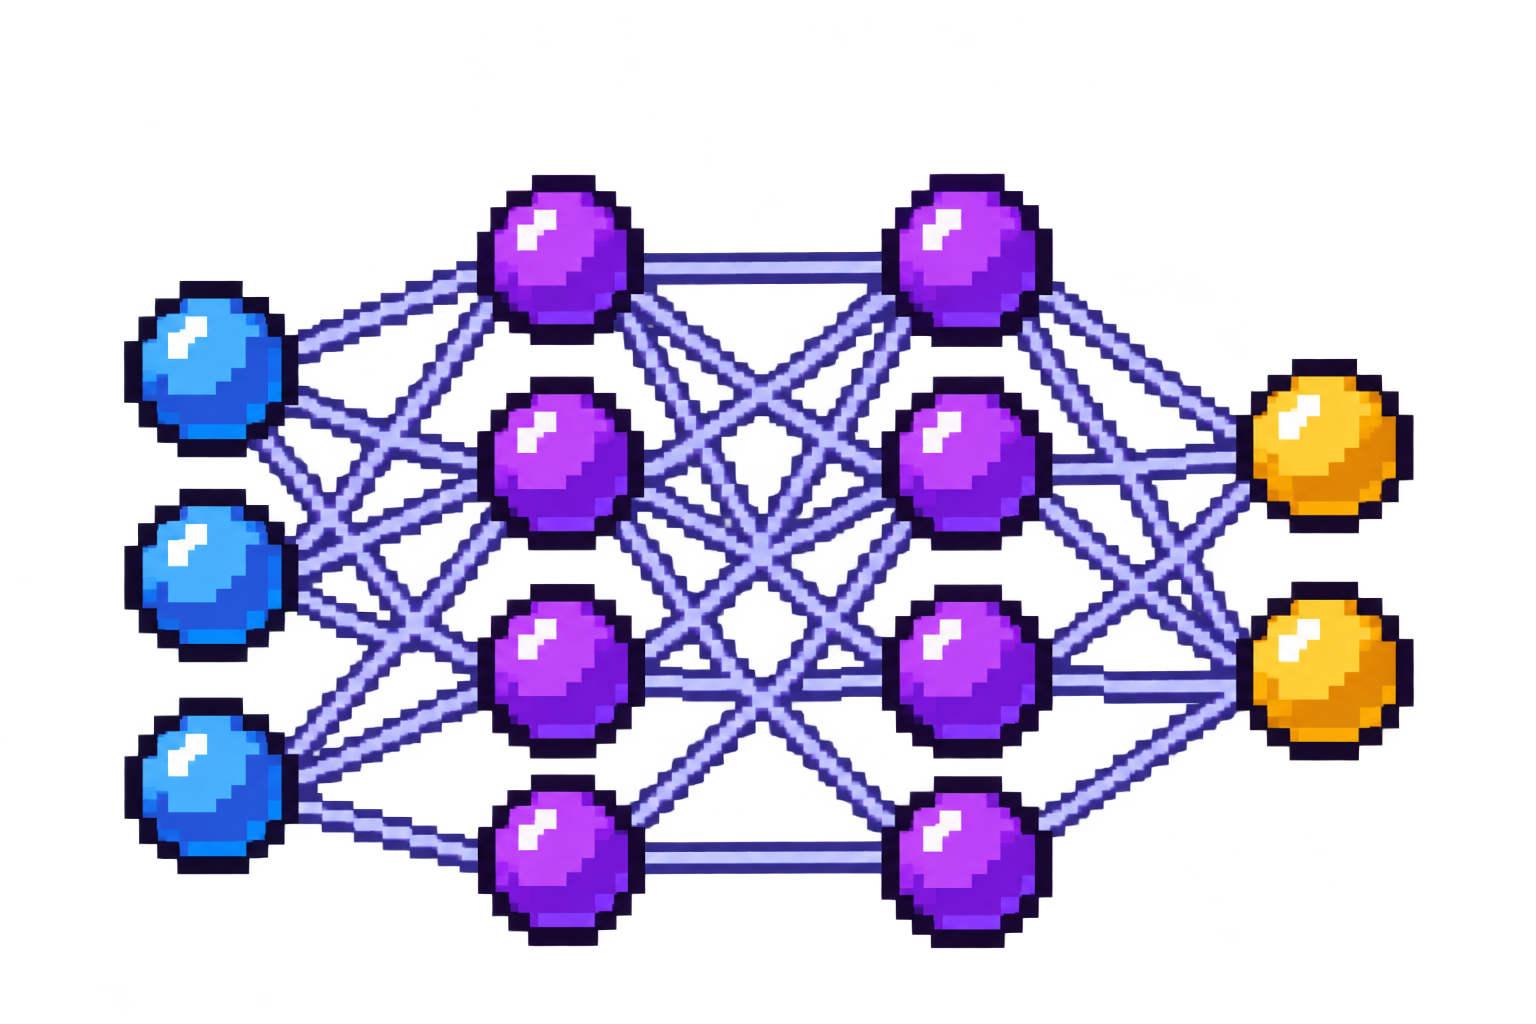
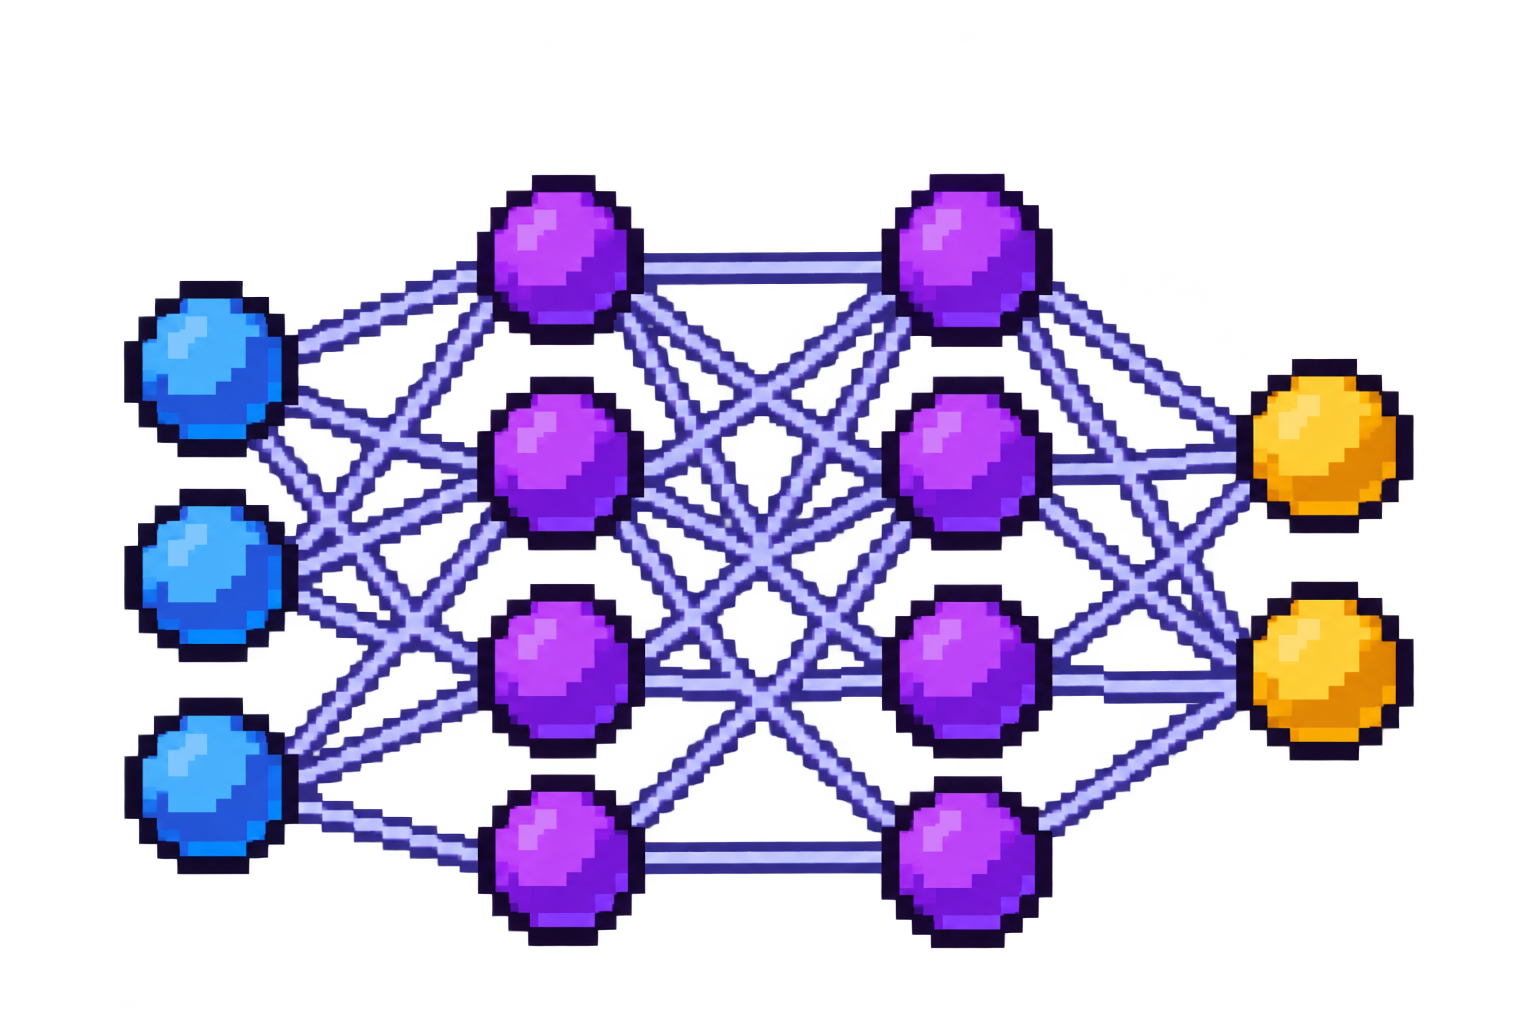
Tidy the project pictures and pop-up
Flatten the neural network's, physics and TSP logos to the user's taste (glints
toned down, shading and borders gone, flat colours), show Unity Clash's title screen
whole, and small pop-up layout fixes that go with them.

diff --git a/src/projects.ts b/src/projects.ts
@@ -121,13 +121,14 @@ export const PROJECTS: Project[] = [
     name: 'Mars Alloc',
     title: 'Mars Allocator',
     image: marsAllocatorImage,
+    imageCentre: 0.6, // the rover's box (rows 112 to 200 of the 260 the build keeps: cardArt trims the empty ones), not its mast
     shots: [marsCode, marsRecovery, marsStormTable, marsSpeedSketch],
     year: 2025,
-    tagline: 'A crash-proof malloc for Mars rovers. Cosmic rays? Not a problem.',
+    tagline: 'A crash-proof memory allocator for Mars rovers. Cosmic rays? Not a problem.',
     kind: 'Systems programming',
     when: 'Dec 2025, coursework',
     tech: ['C', 'Make'],
-    gist: 'A hardened replacement for malloc and free, written for embedded systems in high-radiation environments like a Mars rover, where cosmic rays flip bits and the power can brown out mid-write. Every block carries checksums and mirrored metadata, so corruption is detected, repaired where possible and quarantined where not. The heap can also be split into up to eight thread-safe arenas for parallel work.',
+    gist: "A reinforced version of C's malloc and free, written for embedded systems in high-radiation environments like a Mars rover, where cosmic rays flip bits and power brown outs mid-write. Every block carries checksums and mirrored metadata, so corruption is detected, repaired where possible and quarantined where not. The heap can also be split into up to eight thread-safe arenas for parallel work.",
     funFact: "The header's magic number is 0xC0FE and the footer's is 0xBEEF. Coffee on top, beef underneath.",
     features: [
       'CRC16 on every block. Two bytes of metadata catch about 99.998% of errors.',
@@ -139,7 +140,7 @@ export const PROJECTS: Project[] = [
     ],
     numbers: [
       { value: '49,900', label: 'bit flips thrown at it in the storm test' },
-      { value: '4.93x', label: 'faster with 8 arenas than 1' },
+      { value: '4.93x', label: 'faster with 8 arenas running in parallel' },
       { value: '65%', label: 'of memory still usable after the storm' },
       { value: '90.5%', label: 'the top mark in the cohort' },
     ],
@@ -232,14 +233,15 @@ export const PROJECTS: Project[] = [
     name: 'Mystic',
     title: 'Mystic Messaging',
     image: mysticMessagingImage,
+    imageScale: 1.3, // (tall and narrow: it fills little of the header's slot)
     shots: [mysticChat, mysticHelp, mysticFiles, mysticGroups],
     year: 2025,
     tagline: 'A command-line chat room with a few magic words.',
     kind: 'Networking',
     when: 'Dec 2025, coursework',
     tech: ['Python', 'sockets', 'threading'],
-    gist: 'A multi-user chat app that lives entirely in the terminal. A threaded TCP server routes messages between clients across a global chat, private messages and groups, and serves shared files that clients can download over TCP or UDP. Every command starts with the magic word "mystic", and "mystic help" lists the lot.',
-    funFact: 'The last two commits are titled "Final" and "Final final". A classic.',
+    gist: 'A multi-user chat app that lives entirely in the terminal. Thread based architecture. One server thread routes messages between clients across a global chat, private messages and groups, and serves shared files that clients can download over TCP or UDP. Every command starts with the command word "mystic", and "mystic help" lists all of the commands.',
+    funFact: 'The last two commits are titled "Final" and "Final final". A classic, I know.',
     features: [
       'Threads everywhere. One server thread per client; each client runs separate send and receive threads, plus a temporary thread for UDP downloads.',
       'Four ways to talk. Global chat, private messages, broadcasts and named groups. Join a group and the global chat goes quiet.',
@@ -271,23 +273,23 @@ export const PROJECTS: Project[] = [
     image: xrayRestorationImage,
     shots: [xrayRestored, xrayGeometry, xraySnr, xrayInpaint],
     year: 2026,
-    tagline: 'Ten steps of classical image surgery to rescue wrecked X-rays.',
+    tagline: 'Ten steps of classic image processing to recover wrecked X-rays.',
     kind: 'Computer vision, classical image processing',
     when: 'Feb 2026, coursework',
     tech: ['Python', 'OpenCV', 'NumPy'],
-    gist: 'A set of 256 x 256 chest X-rays arrived badly damaged: tilted, warped, speckled with salt noise and colour noise, punched with dark circular holes and low on contrast. The images feed a pneumonia classifier, so the job was to restore them without throwing away the detail a classifier relies on. The answer was a ten-stage pipeline built entirely from classical signal processing, no deep learning, that cleans a whole folder of images in one command.',
+    gist: 'A set of 256 x 256 chest X-rays of both patients with and without pneumonia arrived damaged: tilted, warped, speckled with salt noise and colour noise, punched with dark circular holes and low on contrast. The images feed a pneumonia classifier, so the job was to restore them without throwing away the detail a classifier relies on. The answer was a ten-stage pipeline built entirely from classical signal processing, no deep learning, that cleans a whole folder of images in one command.',
     funFact: 'The rotation fix borrows a trick from document scanners: in the frequency domain, a rib cage looks like a tilted cross.',
     features: [
       'Rotation fixed in Fourier space. Ribs and spine show up as a cross in the frequency spectrum, so the pipeline scans radial lines every 0.1 degrees and averages the rib and spine deviations to find the tilt.',
       'Selective de-salting. Only pixels that are both extreme and far from their local median get replaced, so fine anatomy survives.',
       'Perspective correction. The largest four-cornered contour is found and warped back to a clean square.',
-      'Colour denoising with CBM3D. An adapted, self-contained CBM3D implementation with its own DCT routines denoises in the OPP colour space.',
+      'Colour denoising with CBM3D, a state-of-the-art technique. An adapted, self-contained CBM3D implementation with its own DCT routines denoises in the OPP colour space.',
       'Hole repair. Dark circular artefacts are detected and filled in with Navier-Stokes inpainting.',
       'Finishing pass. Chroma low-pass in YCrCb, non-local means, CLAHE on the lightness channel and an unsharp mask on luminance only.',
     ],
     numbers: [
       { value: '10', label: 'stages in the pipeline' },
-      { value: '0.1', label: 'degree rotation search step' },
+      { value: '90%+', label: 'classifier scores' },
       { value: '10%', label: 'gain in signal-to-noise ratio, roughly' },
       { value: '0', label: 'neural networks used' },
     ],
@@ -305,13 +307,15 @@ export const PROJECTS: Project[] = [
     name: 'Horses',
     title: 'Horses From Noise',
     image: horsesFromNoiseImage,
+    imageScale: 1.3, // (wide and short: it fills little of the header's slot)
     shots: [horsesSamples, horsesModel, horsesResults, horsesAbstract],
     year: 2026,
     tagline: 'A generator and a discriminator in an arms race over 32 × 32 horses.',
     kind: 'Generative models, deep learning coursework',
     when: 'Oct to Nov 2026, coursework',
     tech: ['Python', 'PyTorch', 'torch-fidelity'],
-    gist: 'Two assessed Deep Learning practicals, one brief: train from scratch on 4,000 CIFAR-10 horse photos, stay under a million parameters, and generate 1,000 new 32 x 32 horses, scored by Kernel Inception Distance (KID, lower is better). First a DCGAN, where a generator and a discriminator train against each other; then the same horses with flow matching.',
+    gist: 'Two assessed deep learning practicals, the idea being to train from scratch a generative adversarial network on 4000 CIFAR-10 horse photos, whilst staying under a million parameters, and generating my own set of 1000 new 32x32 horses. These horses would then be scored by kernel inception distance (KID, the lower the score the better). First a DCGAN, where a generator and a discriminator train against each other; then the same horses with flow matching.',
+    funFact: 'The flow model deliberately asks a weakened copy of itself what it would draw, then steers the other way.',
     features: [
       'Wider, smoother DCGAN. 96- and 128-channel networks (925,734 parameters and buffers), with a normalised 8 x 8 projection and nearest-neighbour upsampling in place of transposed convolutions.',
       'A harder critic to fool. Half the real horses are mirrored, and everything the discriminator sees is shifted by up to 4 pixels, differentiably, so gradients still reach the generator.',
@@ -337,13 +341,16 @@ export const PROJECTS: Project[] = [
     name: 'Physics',
     title: 'Kinemechanics',
     image: kinemechanicsImage,
+    imageScale: 1.25, // (a sparse drawing: bigger next to the title, and on its box)
+    cardImageScale: 1.2,
+    imageCentre: 0.6, // (its weight is low, the ball and the arrows' feet: centre of mass 0.63)
     shots: [physicsMenu, physicsCollisions, physicsProjectile, physicsSuvat],
     year: 2023,
     tagline: 'Physics homework that actually moves.',
     kind: 'Simulation, desktop app',
     when: 'Built around 2023, on GitHub Mar 2026',
     tech: ['C++', 'SFML', 'CMake'],
-    gist: 'A desktop physics simulator for A-level style mechanics, written in C++ with SFML. One mode animates projectile motion and works through the kinematic (SUVAT) equations step by step; the other sends two objects into each other for elastic and inelastic collisions. Any simulation can be saved to a text file and loaded back later.',
+    gist: 'My A-level computer science NEA coursework designed for A-level style mechanics, written in C++ with SFML. One mode animates projectile motion and works through the kinematic (SUVAT) equations step by step; the other sends two objects into each other for elastic and inelastic collisions. Any simulation can be saved to a text file and loaded back later.',
     funFact: 'Every projectile weighs exactly 22.5 kg. It says so, right there on the screen.',
     features: [
       'SUVAT solver. Enter what you know about displacement, velocity, acceleration and time, and it works out the rest through the rearranged equations.',
@@ -357,6 +364,7 @@ export const PROJECTS: Project[] = [
       { value: '3', label: 'screens: menu, projectiles, collisions' },
       { value: '5', label: 'SUVAT variables' },
       { value: '2,500', label: 'lines of C++, roughly' },
+      { value: '100%', label: 'marks scored by examiners' },
     ],
     milestones: [
       { when: 'Around 2023', text: 'Originally written. The clean-up commit later called it "3 year old code".' },
@@ -371,6 +379,8 @@ export const PROJECTS: Project[] = [
     name: 'TSP',
     title: 'TSP Solvers',
     image: tspImage,
+    imageScale: 1.2, // (bigger next to the title and on its box: the user's call)
+    cardImageScale: 1.15,
     shots: [tspSolvedTours, tspGaDiagram, tspPsoSwarm, tspBranchBound],
     year: 2026,
     tagline: 'Evolution versus a swarm, racing to find the shortest round trip.',
@@ -378,7 +388,7 @@ export const PROJECTS: Project[] = [
     when: 'Jan to Feb 2026, coursework',
     tech: ['Python standard library only'],
     gist: "The Travelling Salesman Problem asks for the shortest route that visits every city once and returns home. The number of possible routes explodes factorially, so brute force is hopeless. This project built two nature-inspired solvers inside a strict coursework skeleton, a Genetic Algorithm and a discrete Particle Swarm Optimiser, then pushed both well beyond their lecture versions with custom operators and local search. Both run under time limits on nothing but Python's standard library.",
-    funFact: 'Particle swarms were designed for smooth, continuous spaces. Here the particles "fly" through permutations, so a velocity is really a to-do list of city swaps.',
+    funFact: 'Particle swarms were designed for smooth, continuous spaces. The travelling salesman is a discrete problem, so we need to make some adjustments. Here the particles "fly" through permutations, so a velocity is really a to-do list of city swaps.',
     features: [
       'Breeding. OX4 crossover and tournament selection make good tours from good parents.',
       'Two-phase mutation. Improving 2-opt moves paired with inverted displacement.',
@@ -484,16 +494,20 @@ export const PROJECTS: Project[] = [
     kind: 'Game dev',
     when: '2022, personal',
     tech: ['C#', 'Unity 2020.3'],
-    gist: "A two-player arena platformer built in Unity: two fighters share one keyboard on a stage ringed by blast zones. It's unfinished, but the last devlog shows how far it got.",
-    funFact: 'The main scene file is called "current project unity smash". The inspiration is not subtle.',
+    gist: "A two-player arena platformer built in Unity, after Super Smash Bros: two fighters share one keyboard on a floating stage ringed by blast zones, reached through a title screen, a main menu and a character select. It's unfinished, but the last devlog shows how far it got.",
+    funFact: 'The main scene file is called "current project unity smash". The inspiration was not subtle.',
     features: [
       'Local versus. Player one moves with WASD, player two with the arrow keys.',
-      'Platformer physics. Rigidbody2D movement, ground checks and configurable extra jumps.',
+      'Smash-style menus. A title screen, a main menu of slanted tiles (Smash, Games+, Options, Vault, Changelog) and a two-player character select.',
+      'Platformer physics. Rigidbody2D jumps with configurable extra jumps, refilled whenever a small circle at the fighter\'s feet touches the ground.',
       'Blast zones. Fall off the stage and you respawn at a random spot above the arena.',
+      'Placeholder fighters. Both players are squares for now, marked blue for player one and red for player two.',
     ],
     numbers: [
       { value: '2', label: 'players, one keyboard' },
       { value: '3', label: 'C# scripts' },
+      { value: '5', label: 'tiles on the main menu' },
+      { value: '16', label: 'spots a fighter can respawn at' },
     ],
     milestones: [
       { when: 'May 2022', text: 'Pushed to GitHub.' },

diff --git a/src/components/ProjectPopup.css b/src/components/ProjectPopup.css
@@ -9,7 +9,7 @@
  *
  *   ┌──────────────────────────────────────────────────────────────┐
  *   │ [pic] TITLE                       [logos] [▮▮▮▮▮▮▮▮▮▯▯] │
- *   │       kind · when                         legend        │
+ *   │       kind                                legend        │
  *   ├──────────────────────────────────────────────────────────────┤
  *   │   \  /              [OVERVIEW] [FEATURES] [NUMBERS] [TIMELINE] │
  *   │ ┌──────────────────┐                                          │
@@ -179,6 +179,11 @@
   width: calc(24 * var(--pp));
   height: calc(24 * var(--pp));
   margin-block: calc(-2 * var(--pp));
+  /* its subject's middle (Project.imageCentre, as a fraction of its height) where its own would
+     be; bigger for a picture far from square (Project.imageScale), round its middle, so the
+     title doesn't move */
+  translate: 0 calc((0.5 - var(--image-centre, 0.5)) * 24 * var(--image-scale, 1) * var(--pp));
+  scale: var(--image-scale, 1);
   object-fit: contain;
   image-rendering: pixelated;
 }
@@ -193,17 +198,18 @@
 .project-popup-heading {
   align-self: flex-start; /* (as wide as the name: ProjectPopup.centreNameOnTV centres it) */
   margin: 0;
-  font-size: 2.2em;
+  font-size: 2.6em; /* (the user's call: bigger, the line under it smaller) */
   font-weight: normal;
   line-height: 0;
 }
 
-/* under the title, lined up with it (the user's call): what kind of project (in red), and when */
+/* under the title, lined up with it (the user's call): what kind of project (in red; no date:
+   the Timeline tab has it, the user's call) */
 .project-popup-meta {
   display: flex;
   flex-wrap: wrap;
   gap: var(--gap-xs) var(--gap-m);
-  font-size: 0.85em;
+  font-size: max(6px, 0.7em); /* (small, the user's call; not below 6 px on phones, where 0.7em is 5.6) */
 }
 
 /* ── Middle: the picture side and the sections ────────────────────────── */
@@ -979,14 +985,18 @@
    everything on it (183 ms, easing out like the clip's: ProjectPopup.ts OPENING_MS, kept in step
    with these). The buttons ride in with the rest (the clip's OK jumps as it lands; the user
    didn't want that). Plain numbers in the keyframes, no var(): Safari sizes var() in transform
-   keyframes wrongly (utils/selectJump.ts). Transforms only, so the compositor plays it. */
+   keyframes wrongly (utils/selectJump.ts). Transforms only, so the compositor plays it.
+   Filled backwards only (the start held through the face's delay): their end is how they look
+   anyway, and once they're over the band, the face and the panel's parts can paint as one again.
+   Filled forwards too they stayed GPU layers for good, and switching tabs quickly (their content
+   changing) made the band and the face flicker over each other (the user saw it). */
 .project-popup-slanted .project-popup-panel::before {
-  animation: popup-band-open 250ms linear both;
+  animation: popup-band-open 250ms linear backwards;
 }
 
 .project-popup-slanted .project-popup-panel::after,
 .project-popup-slanted .project-popup-panel > * {
-  animation: popup-slide-in 183ms cubic-bezier(0.5, 1, 0.89, 1) 250ms both;
+  animation: popup-slide-in 183ms cubic-bezier(0.5, 1, 0.89, 1) 250ms backwards;
 }
 
 @keyframes popup-band-open {

diff --git a/src/components/ProjectPopup.ts b/src/components/ProjectPopup.ts
@@ -1,7 +1,7 @@
 import './ProjectPopup.css'
 import { PixelLabel } from './PixelText'
 import { languageBar, languageLabel, type Project } from './ProjectCard'
-import { staticCanvas } from './TvStatic'
+import { OPEN_TUNE_MS, staticCanvas, TUNE_MS } from './TvStatic'
 import { sfx, playSfx } from '../utils/audio'
 import { drawColorGrid } from '../utils/pixelArt'
 import { measureText, TEXT_FONT_HEIGHT } from '../utils/textFont'
@@ -32,7 +32,7 @@ const SLANTED = true
  *  - on the left: the project's pictures (`shots`) on the screen of a
  *    pixel-art TV (tvArt, below), one per tab: switching tabs tunes it in
  *    (static, then the next picture; still static with none), what kind of
- *    project it is and when, and its languages
+ *    project it is, and its languages
  *  - on the right: the write-up in sections (Overview, Features, Numbers,
  *    Timeline), switched with ← → or the tabs; ↑ ↓ scroll a long one
  *  - along the bottom: links and Close
@@ -110,7 +110,12 @@ export class ProjectPopup {
 
     // top: the title with the project's picture beside it, over the TV (centreNameOnTV; the year
     // heads the Timeline tab instead: the user's call, no repeats)
-    if (project.image) q('.project-popup-ident').prepend(image(project.image, 'project-popup-icon'))
+    if (project.image) {
+      const icon = image(project.image, 'project-popup-icon')
+      if (project.imageCentre !== undefined) icon.style.setProperty('--image-centre', String(project.imageCentre))
+      if (project.imageScale !== undefined) icon.style.setProperty('--image-scale', String(project.imageScale))
+      q('.project-popup-ident').prepend(icon)
+    }
     q('.project-popup-heading').append(label(project.title))
 
     // left: the screenshot, on the pixel-art TV's screen (static when there isn't one)
@@ -128,8 +133,8 @@ export class ProjectPopup {
     screen.style.height = pct(TV_SCREEN.height + 2, TV.height)
     q('.project-popup-static').append(staticCanvas(TV_SCREEN.width, TV_SCREEN.height))
     q<HTMLImageElement>('.project-popup-picture').alt = `${project.title} project image`
-    // under the title: what kind of project, and when
-    q('.project-popup-meta').append(label(project.kind, 'project-popup-kind'), label(project.when))
+    // under the title: what kind of project (not when: the Timeline tab has that; the user's call)
+    q('.project-popup-meta').append(label(project.kind, 'project-popup-kind'))
     // top right, before the year: the language logos, then the languages' bar with its legend
     q('.project-popup-logos').append(...project.logos.map(src => image(src)))
     q('.project-popup-legend').append(...project.languages.map(l => {
@@ -685,11 +690,6 @@ function yearFlag(year: number): HTMLElement {
   flag.append(digits)
   return flag
 }
-
-/** How long the TV shows static, at least, when it tunes to another tab's picture (ProjectPopup.tuneTV). */
-const TUNE_MS = 260
-/** The same when the pop-up opens: a little longer, like a set warming up. */
-const OPEN_TUNE_MS = 420
 
 /**
  * The experiment's opening (ProjectPopup.css, "The opening"): the band opens (250 ms), then the

diff --git a/src/components/ProjectCard.ts b/src/components/ProjectCard.ts
@@ -11,10 +11,13 @@ import { playSelectJump } from '../utils/selectJump'
  */
 const ART = { CENTER_X: 43, CENTER_Y: 38, MAX_W: 74, MAX_H: 64, AREA: 54 * 54 }
 
-/** A picture's size in art px: AREA in its own proportions, shrunk to fit MAX_W × MAX_H. */
-function artSize(naturalWidth: number, naturalHeight: number): { width: number; height: number } {
+/**
+ * A picture's size in art px: AREA in its own proportions (`scale` times as big each way:
+ * Project.cardImageScale), shrunk to fit MAX_W × MAX_H.
+ */
+function artSize(naturalWidth: number, naturalHeight: number, scale = 1): { width: number; height: number } {
   const ratio = naturalWidth > 0 && naturalHeight > 0 ? naturalWidth / naturalHeight : 1
-  let width = Math.sqrt(ART.AREA * ratio)
+  let width = Math.sqrt(ART.AREA * ratio) * scale
   let height = width / ratio
   const fit = Math.min(1, ART.MAX_W / width, ART.MAX_H / height)
   width *= fit
@@ -39,9 +42,30 @@ export interface Project {
   year: number
   /** One fun line (opens the Overview). */
   tagline: string
+  /**
+   * Where the picture's subject is, top to bottom, as a fraction of its height (0.5 if not
+   * given) as served, after the build trims its empty edges (cardArt, vite.config.ts): the
+   * pop-up's header centres that on the title and the line under it (Mars Allocator's rover
+   * is centred on its box, not its mast: the user's call).
+   */
+  imageCentre?: number
+  /**
+   * How much bigger the pop-up's header draws the picture than its 24 pp slot (1 if not
+   * given): it grows round its middle, over the slot's edges, so the title stays put. For
+   * pictures far from square, which fill less of the slot (Horses From Noise's and Mystic
+   * Messaging's: the user's call).
+   */
+  imageScale?: number
+  /**
+   * How much bigger the box draws the picture, each way, than the area every picture gets
+   * (ART; 1 if not given; still inside the panel's limits): for a sparse drawing that looks
+   * small at that area (Kinemechanics': the user's call).
+   */
+  cardImageScale?: number
   /** What kind of project, under the picture ("Systems programming"). */
   kind: string
-  /** When, and what sort ("Dec 2025, coursework"), under that. */
+  /** When, and what sort ("Dec 2025, coursework"). Not shown at the moment: the pop-up's header
+   *  dropped it, as the Timeline tab has the dates (the user's call). */
   when: string
   /** Tools and libraries, under that (optional). */
   tech?: string[]
@@ -115,7 +139,7 @@ export class ProjectCard {
       const img = el.querySelector<HTMLImageElement>('.project-card-image')!
       // shown once it has loaded and been given its size (see ART)
       const place = () => {
-        const { width, height } = artSize(img.naturalWidth, img.naturalHeight)
+        const { width, height } = artSize(img.naturalWidth, img.naturalHeight, project.cardImageScale)
         const px = (n: number) => `calc(${+n.toFixed(2)} * var(--px))`
         img.style.width = px(width)
         img.style.height = px(height)
